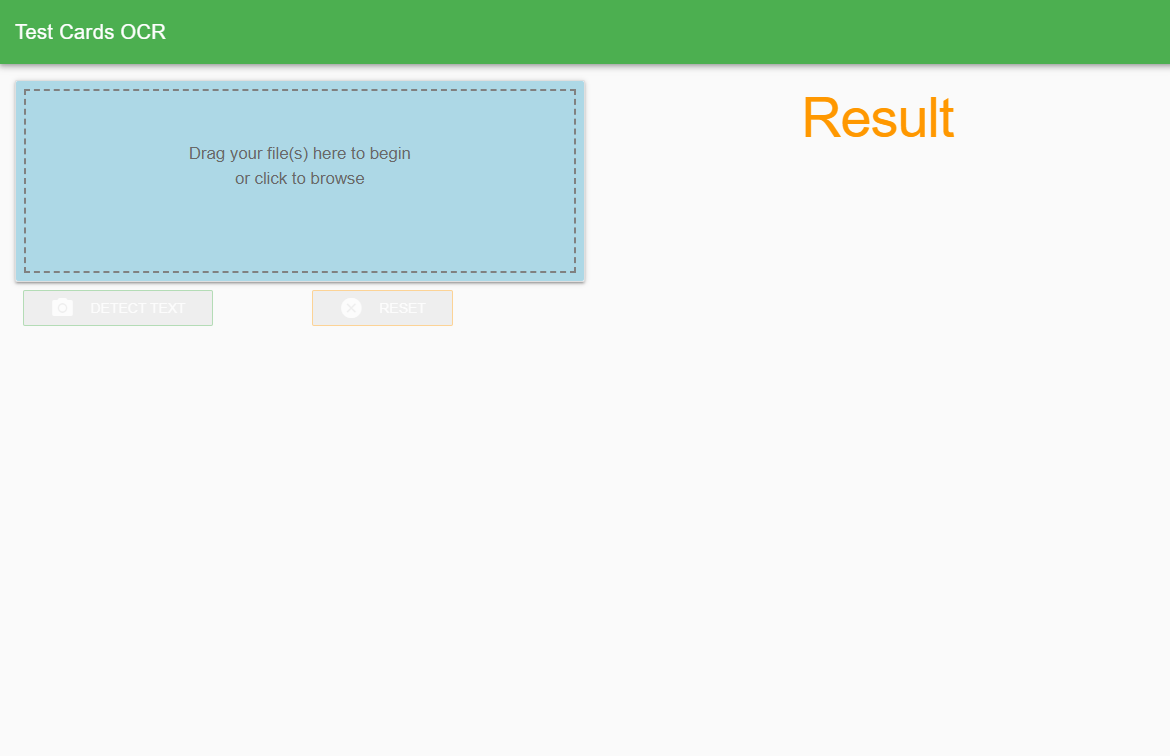
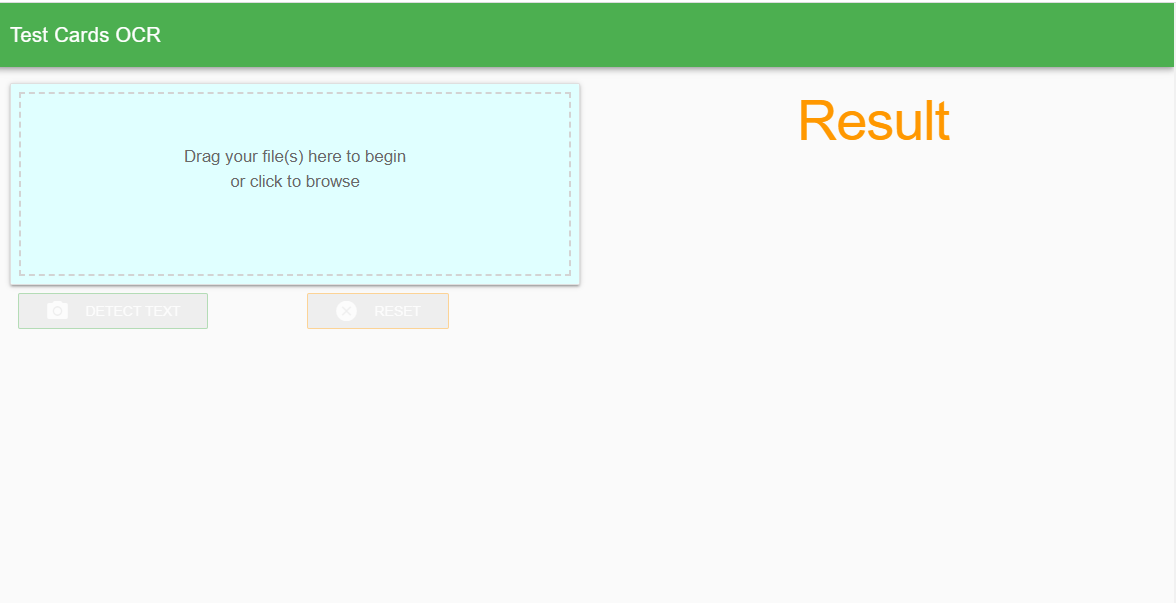
finished with the project and readme

Changed region(s): [[0.0, 0.0, 1.0, 0.4776]]

diff --git a/src/components/CreditCard.vue b/src/components/CreditCard.vue
@@ -11,7 +11,7 @@
                             {{ messageResult.message }}
                         </span>
                     </v-card>
-                  
+
                     <v-card v-if="selectedImageBase64">
                       <img class="img-responsive img-thumbnail" width="100%" height="50%" :src="selectedImageBase64" alt="Credit Card Image">
                       <canvas id="canvas" width="600" height="480" style="display: none;"></canvas>
@@ -23,9 +23,6 @@
                                    block accept="image/x-png,image/gif,image/jpeg,image/jpg" class="input-file">
                             <p v-if="!detectingTextStatus">
                                 Drag your file(s) here to begin<br> or click to browse
-                            </p>
-                            <p v-if="detectingTextStatus">
-                                Uploading and detecting text in file...
                             </p>
                         </div>
                     </v-card>
@@ -116,26 +113,28 @@ export default {
 <style>
 
 .dropbox {
-  outline: 2px dashed grey; /* the dash box */
+  outline: 2px dashed lightgrey;
   outline-offset: -10px;
   background: lightcyan;
   color: dimgray;
   padding: 10px 10px;
-  min-height: 200px; /* minimum height */
+  min-height: 200px;
   position: relative;
   cursor: pointer;
 }
 
+/* invisible but it's there */
 .input-file {
-  opacity: 0; /* invisible but it's there! */
+  opacity: 0;
   width: 100%;
   height: 200px;
   position: absolute;
   cursor: pointer;
 }
 
+/* when mouse over to the drop zone, change color */
 .dropbox:hover {
-  background: lightblue; /* when mouse over to the drop zone, change color */
+  background: lightblue;
 }
 
 .dropbox p {
@@ -143,7 +142,8 @@ export default {
   text-align: center;
   padding: 50px 0;
 }
-  p {
-      font-size: 18px
-  }
+
+p {
+    font-size: 18px
+}
 </style>

diff --git a/config/dev.env.js b/config/dev.env.js
@@ -3,5 +3,5 @@ const prodEnv = require('./prod.env')
 
 module.exports = merge(prodEnv, {
   NODE_ENV: '"development"',
-  GOOGLE_API_KEY: '"AIzaSyCCX-1uqpeOccH5TkJEj2pkOBU6phtS9RM"'
+  GOOGLE_API_KEY: '""'
 })

diff --git a/config/prod.env.js b/config/prod.env.js
@@ -1,4 +1,4 @@
 module.exports = {
   NODE_ENV: '"production"',
-  GOOGLE_API_KEY: '"AIzaSyCCX-1uqpeOccH5TkJEj2pkOBU6phtS9RM"'
+  GOOGLE_API_KEY: '""'
 }

diff --git a/README.md b/README.md
@@ -10,10 +10,14 @@
 | ![](static/img/images/initial_form_img.png) |
 
 
-| Credit Card Detected Text Screen           |
+| Credit Card Detected Text Success Screen   |
 |:-------------------------------------------|
 | ![](static/img/images/detect_text_img.png) |
 
+
+| Credit Card Detected Text Error Screen           |
+|:-------------------------------------------------|
+| ![](static/img/images/detect_text_error_img.png) |
 
 
 ## Getting Started
